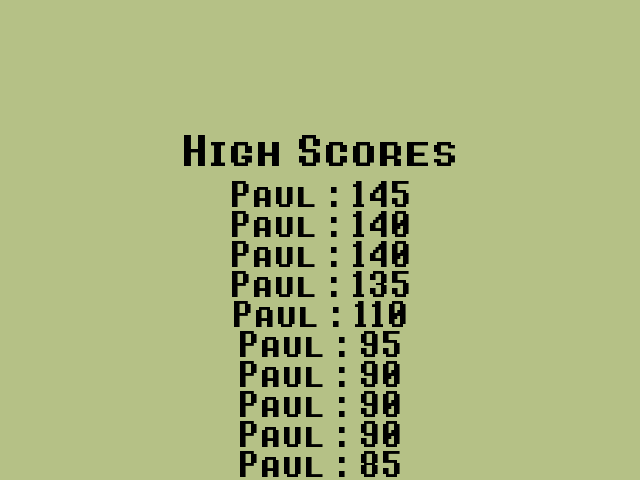
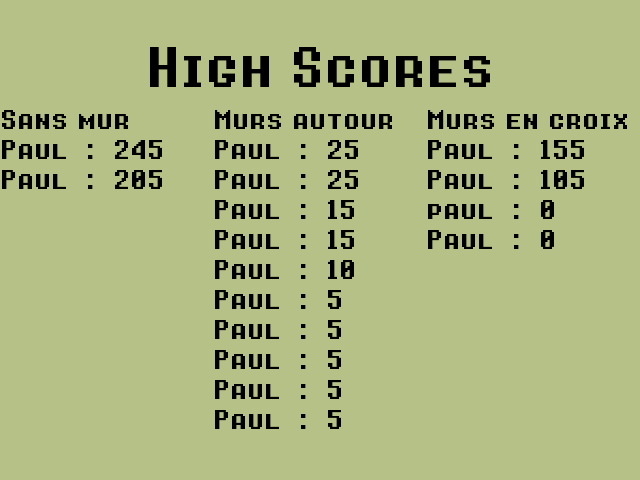
Ajout nouveaux modes de jeu

Changed region(s): [[0.2812, 0.2188, 1.0, 1.0], [0.2188, 0.0938, 0.7812, 0.1875], [0.0, 0.2188, 0.25, 0.4062]]

diff --git a/main.py b/main.py
@@ -33,6 +33,24 @@ def afficher_serpent(serpent):
 
 def afficher_pomme(pomme):
     pygame.draw.rect(fenetre, COULEUR_POMME, (*pomme, TAILLE_CELLULE, TAILLE_CELLULE))
+    
+def nouvelle_pomme(selection_murs):
+    while True:
+        pomme_temp = [random.randrange(0, LARGEUR, TAILLE_CELLULE), random.randrange(0, HAUTEUR, TAILLE_CELLULE)]
+        if selection_murs == "Murs autour":
+            if pomme_temp[0] <= 0 or pomme_temp[0] >= LARGEUR - 1 or pomme_temp[1] <= 0 or pomme_temp[1] >= HAUTEUR - 1:
+                continue
+        elif selection_murs == "Murs en croix":
+            # Collision avec le mur vertical
+            if (LARGEUR/2 - TAILLE_CELLULE <= pomme_temp[0] < LARGEUR/2 and 0 <= pomme_temp[1] < HAUTEUR):
+                continue
+            # Collision avec le mur horizontal supérieur
+            elif (0 <= pomme_temp[0] < LARGEUR/2 - 3*TAILLE_CELLULE and HAUTEUR/2 - TAILLE_CELLULE <= pomme_temp[1] < HAUTEUR/2):
+                continue
+            # Collision avec le mur horizontal inférieur
+            elif (LARGEUR/2 + 3*TAILLE_CELLULE <= pomme_temp[0] < LARGEUR and HAUTEUR/2 - TAILLE_CELLULE <= pomme_temp[1] < HAUTEUR/2):
+                continue
+        return pomme_temp
 
 def afficher_quadrillage():
     for x in range(0, LARGEUR, TAILLE_CELLULE):
@@ -40,30 +58,53 @@ def afficher_quadrillage():
     for y in range(0, HAUTEUR, TAILLE_CELLULE):
         pygame.draw.line(fenetre, COULEUR_QUADRILLAGE, (0, y), (LARGEUR, y))
 
-def enregistrer_score(score, nom):
+def enregistrer_score(score, nom, mode):
     with open("scores.txt", "a") as fichier_scores:
-        fichier_scores.write(f"{nom} : {score}\n")
+        fichier_scores.write(f"{nom} : {score} : {mode}\n")
 
-def afficher_scores():
+def obtenir_meilleurs_scores(mode):
     with open("scores.txt", "r") as fichier_scores:
         scores = fichier_scores.readlines()
 
-    scores_tries = sorted(scores, key=lambda s: int(s.split(" : ")[1]), reverse=True)
-    top_scores = scores_tries[:10]
+    # Filtrer les scores en fonction du mode
+    scores_mode = [s for s in scores if len(s.strip().split(":")) > 2 and s.strip().split(":")[2].strip() == mode]
+    
+    # Trier les scores
+    scores_tries = sorted(scores_mode, key=lambda s: int(s.split(" : ")[1]), reverse=True)
 
-    y = HAUTEUR / 4 + 50
-    for score in top_scores:
-        score_texte = lcd_font.render(score.strip(), True, COULEUR_SCORE)
-        fenetre.blit(score_texte, [LARGEUR/2 - score_texte.get_width()/2, y])
-        y += 30
+    # Renvoyer les 10 meilleurs scores pour ce mode
+    return scores_tries[:10]
 
-def demander_nom(score):
+def afficher_meilleurs_scores():
+    lcd_title_font = pygame.font.Font("digital_font.ttf", 50)
+    title = lcd_title_font.render("High Scores", True, COULEUR_SCORE)
+    fenetre.blit(title, (LARGEUR/2 - title.get_width()/2, 30))  # Remontez le titre en haut
+
+    modes = ["Sans mur", "Murs autour", "Murs en croix"]
+    
+    lcd_font_score = pygame.font.Font("digital_font.ttf", 25)
+    
+    for idx, mode in enumerate(modes):
+        meilleurs_scores = obtenir_meilleurs_scores(mode)
+        
+        # Positionnement des titres des modes
+        offset_y = 100
+        mode_title = lcd_font_score.render(mode, True, COULEUR_SCORE)
+        fenetre.blit(mode_title, (LARGEUR/3 * idx, offset_y))
+        
+        # Affichage des 10 premiers scores pour chaque mode
+        for i, score in enumerate(meilleurs_scores):
+            y_position = offset_y + (i + 1) * 30
+            score_texte = lcd_font_score.render(score.strip().split(":")[0] + " : " + score.strip().split(":")[1], True, COULEUR_SCORE)
+            fenetre.blit(score_texte, (LARGEUR/3 * idx, y_position))
+
+def demander_nom(score, mode):
     lcd_font = pygame.font.Font("digital_font.ttf", 32)
     input_box = pygame.Rect(LARGEUR / 2 - 70, HAUTEUR / 2, 140, lcd_font.get_height() + 10)  # Ajustement ici
-    color_inactive = pygame.Color('lightskyblue3')
-    color_active = pygame.Color('dodgerblue2')
+    color_inactive = pygame.Color('black')
+    color_active = pygame.Color('black')
     color = color_inactive
-    active = False
+    active = True
     text = ''
     clock = pygame.time.Clock()
     done = False
@@ -82,7 +123,7 @@ def demander_nom(score):
             if event.type == pygame.KEYDOWN:
                 if active:
                     if event.key == pygame.K_RETURN:
-                        enregistrer_score(score, text)
+                        enregistrer_score(score, text, mode)
                         done = True
                     elif event.key == pygame.K_BACKSPACE:
                         text = text[:-1]
@@ -105,14 +146,9 @@ def demander_nom(score):
         clock.tick(30)
     # Effacez l'écran après avoir terminé la saisie
     fenetre.fill(COULEUR_FOND)
-    
-    # Affichez le titre "High Scores"
-    lcd_title_font = pygame.font.Font("digital_font.ttf", 40)
-    title = lcd_title_font.render("High Scores", True, COULEUR_SCORE)
-    fenetre.blit(title, (LARGEUR/2 - title.get_width()/2, HAUTEUR/4))
-    
+
     # Affichez les scores
-    afficher_scores()
+    afficher_meilleurs_scores()
 
     pygame.display.flip()
 
@@ -126,21 +162,98 @@ def demander_nom(score):
             if event.type == pygame.KEYDOWN:
                 waiting = False
 
-def meilleur_score(score):
+def meilleur_score(score, mode):
     fichier_scores = open("scores.txt", "r")
     scores = fichier_scores.readlines()
     fichier_scores.close()
     if len(scores) < 5 or score > int(scores[-1].split(" : ")[1]):
-        demander_nom(score)
+        demander_nom(score, mode)
+        
+# Options Murs        
+def menu_murs():
+    # Initialisation des options et de l'index sélectionné
+    options = ["Sans mur", "Murs autour", "Murs en croix"]
+    index_selection = 0
+    en_attente = True
 
+    while en_attente:
+        fenetre.fill(COULEUR_FOND)
+        
+        # Affichage des options
+        for i, option in enumerate(options):
+            color = COULEUR_SCORE if i == index_selection else BLANC
+            text = lcd_font.render(option, True, color)
+            fenetre.blit(text, (LARGEUR/2 - text.get_width()/2, HAUTEUR/2 + i * 40 - len(options) * 20))
+
+        pygame.display.flip()
+
+        for event in pygame.event.get():
+            if event.type == pygame.QUIT:
+                pygame.quit()
+                return None
+            if event.type == pygame.KEYDOWN:
+                if event.key == pygame.K_DOWN:
+                    index_selection = (index_selection + 1) % len(options)
+                elif event.key == pygame.K_UP:
+                    index_selection = (index_selection - 1) % len(options)
+                elif event.key == pygame.K_RETURN:
+                    en_attente = False
+
+    return options[index_selection]
+
+# Affichage des murs
+def dessiner_murs(selection):
+    if selection == "Murs autour":
+        pygame.draw.rect(fenetre, COULEUR_SERPENT, (0, 0, LARGEUR, TAILLE_CELLULE))
+        pygame.draw.rect(fenetre, COULEUR_SERPENT, (0, HAUTEUR - TAILLE_CELLULE, LARGEUR,TAILLE_CELLULE))
+        pygame.draw.rect(fenetre, COULEUR_SERPENT, (0, 0, TAILLE_CELLULE, HAUTEUR))
+        pygame.draw.rect(fenetre, COULEUR_SERPENT, (LARGEUR - TAILLE_CELLULE, 0, TAILLE_CELLULE, HAUTEUR))
+    elif selection == "Murs en croix":
+        # Dessinez le mur vertical au centre
+        pygame.draw.rect(fenetre, COULEUR_SERPENT, (LARGEUR/2 - TAILLE_CELLULE, 0, TAILLE_CELLULE, HAUTEUR))
+        # Dessinez le mur horizontal au centre avec un espace au milieu
+        pygame.draw.rect(fenetre, COULEUR_SERPENT, (0, HAUTEUR/2 - TAILLE_CELLULE, LARGEUR/2 - 3*TAILLE_CELLULE, TAILLE_CELLULE))
+        pygame.draw.rect(fenetre, COULEUR_SERPENT, (LARGEUR/2 + 3*TAILLE_CELLULE, HAUTEUR/2 - TAILLE_CELLULE, LARGEUR/2 - 3*TAILLE_CELLULE, TAILLE_CELLULE))
+
+# gestion collision
+def collision(score, mode):
+    demander_nom(score, mode)  # Demandez le nom ici
+    afficher_meilleurs_scores()  # Affichez les scores ici
+    pygame.display.flip()
+    waiting = True
+    while waiting:  # Boucle d'attente pour une nouvelle partie
+        for event in pygame.event.get():
+            if event.type == pygame.QUIT:
+                pygame.quit()
+                return
+            if event.type == pygame.KEYDOWN:  # Appuyez sur n'importe quelle touche pour démarrer une nouvelle partie
+                waiting = False
+                jeu_snake()
+                return
+            
 # Fonction principale
 def jeu_snake():
-    serpent = [[LARGEUR / 2, HAUTEUR / 2]]
+    
+    selection_murs = menu_murs()
+    if not selection_murs:  # Si l'utilisateur a fermé la fenêtre
+        return
+    
+    # Initialisation du serpent
+    if selection_murs == "Murs en croix":
+        serpent = [[LARGEUR / 2 - TAILLE_CELLULE * 8, HAUTEUR / 2 - TAILLE_CELLULE * 4]]
+    else:
+        serpent = [[LARGEUR / 2, HAUTEUR / 2]]
+    mouvement_x, mouvement_y = TAILLE_CELLULE, 0
+    
+    # Initialisation la direction en cours à None.
+    direction_actuelle = "DEPART"
+
     score = 0
     mouvement_x, mouvement_y = 0, 0
     pomme = [random.randrange(0, LARGEUR, TAILLE_CELLULE), random.randrange(0, HAUTEUR, TAILLE_CELLULE)]
     jeu_en_cours = True
-
+    # Avant la boucle principale du jeu
+    
     while jeu_en_cours:
         for event in pygame.event.get():
             if event.type == pygame.QUIT:
@@ -148,16 +261,16 @@ def jeu_snake():
 
 # Contrôle du mouvement du serpent
             if event.type == pygame.KEYDOWN:
-                if event.key == pygame.K_LEFT:
+                if event.key == pygame.K_LEFT and mouvement_x == 0 and (not direction_actuelle or direction_actuelle != "DROITE"):
                     mouvement_x = -TAILLE_CELLULE
                     mouvement_y = 0
-                elif event.key == pygame.K_RIGHT:
+                elif event.key == pygame.K_RIGHT and mouvement_x == 0 and (not direction_actuelle or direction_actuelle != "GAUCHE"):
                     mouvement_x = TAILLE_CELLULE
                     mouvement_y = 0
-                elif event.key == pygame.K_UP:
+                elif event.key == pygame.K_UP and mouvement_y == 0 and (not direction_actuelle or direction_actuelle != "BAS"):
                     mouvement_x = 0
                     mouvement_y = -TAILLE_CELLULE
-                elif event.key == pygame.K_DOWN:
+                elif event.key == pygame.K_DOWN and mouvement_y == 0 and (not direction_actuelle or direction_actuelle != "HAUT"):
                     mouvement_x = 0
                     mouvement_y = TAILLE_CELLULE
 
@@ -166,11 +279,24 @@ def jeu_snake():
         tete_y = serpent[0][1] + mouvement_y
         nouvelle_tete = [tete_x, tete_y]
         serpent.insert(0, nouvelle_tete)
+        
+# Dessinez le serpent
+        afficher_serpent(serpent)
+        
+# Mise à jour de la direction actuelle après avoir dessiné le serpent
+        if mouvement_x > 0:
+            direction_actuelle = "DROITE"
+        elif mouvement_x < 0:
+            direction_actuelle = "GAUCHE"
+        elif mouvement_y > 0:
+            direction_actuelle = "BAS"
+        elif mouvement_y < 0:
+            direction_actuelle = "HAUT"
 
 # Vérification de la collision avec la pomme
         if serpent[0] == pomme:
             score += 5
-            pomme = [random.randrange(0, LARGEUR, TAILLE_CELLULE), random.randrange(0, HAUTEUR, TAILLE_CELLULE)]
+            pomme = nouvelle_pomme(selection_murs)
         else:
             serpent.pop()
 
@@ -187,25 +313,28 @@ def jeu_snake():
 
 # Vérification de la collision avec le corps du serpent
         if serpent[0] in serpent[1:]:
-            demander_nom(score)  # Demandez le nom ici
-            afficher_scores()  # Affichez les scores ici
-            pygame.display.flip()
-            waiting = True
-            while waiting:  # Boucle d'attente pour une nouvelle partie
-                for event in pygame.event.get():
-                    if event.type == pygame.QUIT:
-                        pygame.quit()
-                        return
-                    if event.type == pygame.KEYDOWN:  # Appuyez sur n'importe quelle touche pour démarrer une nouvelle partie
-                        waiting = False
-                        jeu_snake()
-                        return
+            collision(score, selection_murs)
             
+# Vérifiez la collision avec les murs
+        if selection_murs == "Murs autour":
+            if serpent[0][0] <= 0 or serpent[0][0] >= LARGEUR - 1 or serpent[0][1] <= 0 or serpent[0][1] >= HAUTEUR - 1:
+                collision(score, selection_murs)
+        elif selection_murs == "Murs en croix":
+            # Collision avec le mur vertical
+            if (LARGEUR/2 - TAILLE_CELLULE <= serpent[0][0] < LARGEUR/2 and 0 <= serpent[0][1] < HAUTEUR):
+                collision(score, selection_murs)
+            # Collision avec le mur horizontal supérieur
+            elif (0 <= serpent[0][0] < LARGEUR/2 - 3*TAILLE_CELLULE and HAUTEUR/2 - TAILLE_CELLULE <= serpent[0][1] < HAUTEUR/2):
+                collision(score, selection_murs)
+            # Collision avec le mur horizontal inférieur
+            elif (LARGEUR/2 + 3*TAILLE_CELLULE <= serpent[0][0] < LARGEUR and HAUTEUR/2 - TAILLE_CELLULE <= serpent[0][1] < HAUTEUR/2):
+                collision(score, selection_murs)
 
 # Effacement de l'écran
         fenetre.fill(COULEUR_FOND)
 
         afficher_serpent(serpent)
+        dessiner_murs(selection_murs)  # Dans la boucle principale du jeu, après avoir effacé l'écran
         afficher_pomme(pomme)
         afficher_quadrillage()
         
@@ -219,7 +348,7 @@ def jeu_snake():
     afficher_score(score)
 
 # Affichage des meilleurs scores à l'écran
-    afficher_scores()
+    afficher_meilleurs_scores()
 
 # Vérification du meilleur score
     meilleur_score(score)
